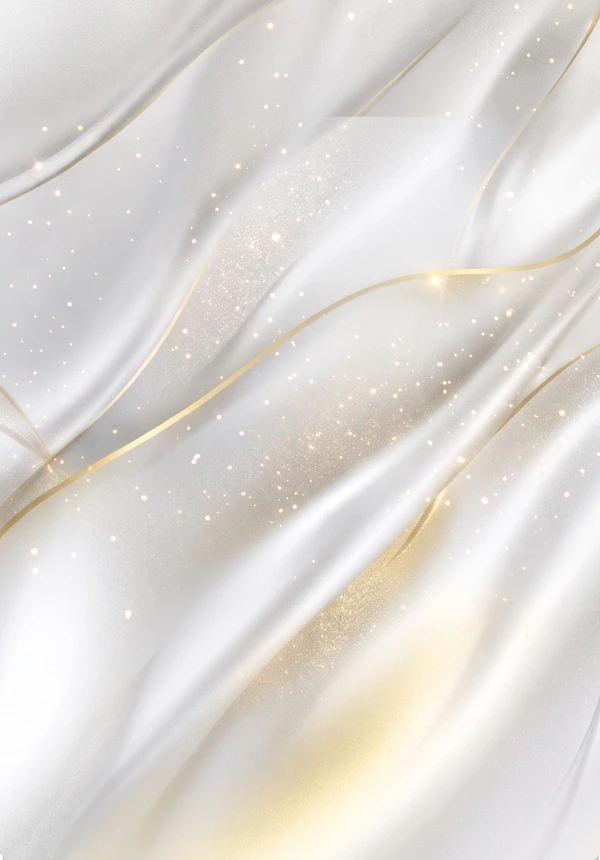
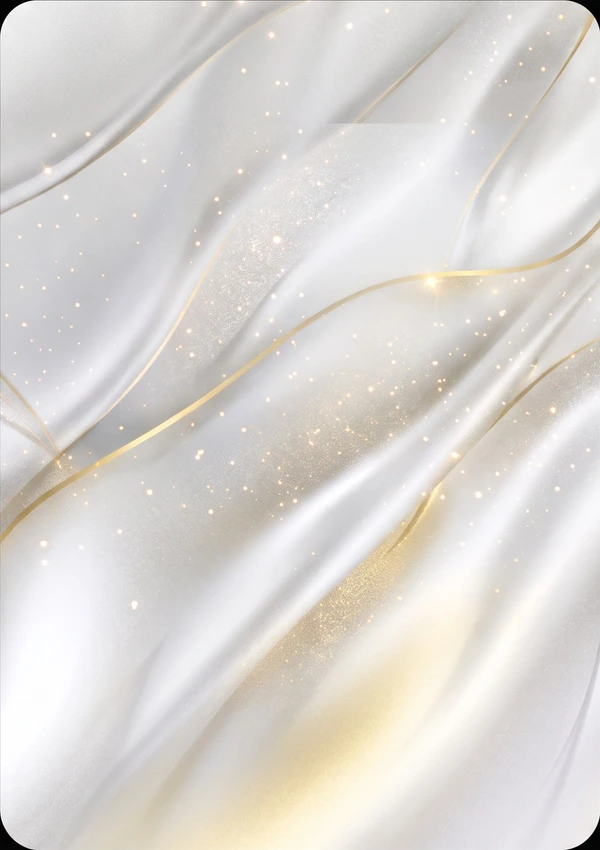
rebuild Icone from the three black-background Gemini layers (satin, gold frame, crystal render)
Claude-Session: https://claude.ai/code/session_01N8XLJoyFiwvoZXFrULaieo

diff --git a/components/cancha-card.tsx b/components/cancha-card.tsx
@@ -219,7 +219,7 @@ const ROUPAS = {
   // Maré (2026-11-05, teste do kit em camadas: fundo e borda feitos no Gemini com o gabarito 5:7, montados por `prototipos/montar-carta.cjs`):
   // tromba-d'água num mar de enchente e moldura de ouro com a "capa" de lâminas nos cantos de baixo. Janela padrão (`ring`, 64,5 px da caixa).
   mare: { background: "premium-mare", overflow: "premium-mare-vaza", artInset: { x: 1.43, y: 1.02, radius: 7.5 }, window: "ring", windowInset: { x: 1.43, y: 1.02 }, windowRadius: 7.5, contentPad: 6.25, artFrame: true, clean: true, trim: null, metal: ["#b8902f", "#b8902f", "#fff1c2"], accent: "#f3d27a", light: "120 230 255", bar: "#031018", muted: "#bfeeff", sparkles: false, neon: "#f3d27a" },
-  icone: { background: "premium-marfim", overflow: "premium-marfim-vaza", overflowWidth: 774 / 714, artFrame: true, clean: true, bareName: true, ink: "#2a2113", trim: null, metal: ["#c9a24e", "#c9a24e", "#fff4d6"], accent: "#c9a24e", light: "255 240 200", bar: "#f4efe4", muted: "#6b5a36", sparkles: false, neon: "#ffcf4d" },
+  icone: { background: "premium-marfim", overflow: "premium-marfim-vaza", overflowWidth: 790 / 714, artInset: { x: 1.43, y: 1.02, radius: 7.5 }, window: "ring", windowInset: { x: 1.43, y: 1.02 }, windowRadius: 7.5, contentPad: 6.25, artFrame: true, clean: true, bareName: true, ink: "#2a2113", trim: null, metal: ["#c9a24e", "#c9a24e", "#fff4d6"], accent: "#c9a24e", light: "255 240 200", bar: "#f4efe4", muted: "#6b5a36", sparkles: false, neon: "#ffcf4d" },
   // Aurora (2026-11-04, GUARDADA: o dono gostou mas pediu para não aplicar ainda; não está em `CARD_SKINS`, então não aparece na Loja.
   // Para usar: entrada em `CARD_SKINS` (sugestão nível 14, 1600 CC), `case` em `skinRoupa` e `SKIN_CLASSES`): aurora boreal renderizada pixel a pixel em código (`prototipos/premium-aurora.cjs`), fio de ouro, respiro preto,
   // tubo de neon verde-água por fora e a Estrela Polar no topo; a luz da aurora vaza sobre a moldura. Concêntrica: windowRadius = raio da carta − o aro.

diff --git a/CLAUDE.md b/CLAUDE.md
@@ -26,7 +26,7 @@ Design mobile-first é inegociável: a interação principal (dar notas no vesti
 
 **OVR de carreira e gols no Ataque (2026-11-08, decisão do dono do app; na `main` e migration `20261108140000_career_ovr.sql` aplicada em produção):** o OVR da carta deixou de ser calculado sobre todas as notas juntas e passou a ser a **média simples dos OVRs de cada rodada** (sem tirar nenhuma; em cada rodada a maior e a menor nota já saem, `counted_evaluations`), e cada atributo é a média dele nas rodadas (`computeCareerCard` em `lib/ovr.ts`; `computeOvr` ficou como o OVR de UMA rodada, usado na nota da rodada e nos pontos do ranking). **Cada gol confirmado soma +1 no Ataque** (VEL e CHU, teto de +10, `GOAL_ATTACK_BONUS_*`, goleiro fora); o OVR sobe o quanto o Ataque maior faz subir a média das 2 maiores estatísticas. O OVR da carta e as 3 estatísticas exibidas podem diferir em 1 ponto. A carta congelada dos prêmios (`compute_match_awards`) segue a mesma conta, com o OVR saindo de `card_ovr` dos atributos. `buildPlayers` e `getOvrByMember` recebem os gols confirmados (`getConfirmedGoalsByMember` em `lib/match-goals.ts`). Vale para o histórico (OVRs de hoje mudam ao entrar). **Desempate das premiações individuais (migration `20261108130000`, em produção, rodadas a partir de 2026-11-08):** empate na nota → maior OVR geral → maior média de todas as notas → todos ganham; Bola Murcha inverso; pacotes seguem com "empate igual". Testes: `supabase/tests/awards-tiebreak/tiebreak.mjs`.
 
-**Pacotes de skins (2026-11-08, em construção na branch `feat/pacotes`, TUDO DESLIGADO em produção; design em `docs/superpowers/specs/2026-11-07-pacotes-design.md` e plano em `docs/superpowers/plans/2026-11-07-pacotes-plan.md`, ambos na branch `docs/pacotes-design`):** ao fechar a rodada, quem jogou ganha 1 pacote lacrado com 1 skin (só visual/coleção, não muda a pelada). Banco (migration `20261108120000_packs.sql`, aplicada em produção desligada): `groups.packs_enabled` (padrão falso, só o `/admin` liga, junto com `pack_min_players`, padrão 10), tabelas sem acesso direto (`pack_sets` por mês, `pack_tier_odds`, `pack_config`, `pack_rarity_coins`, `packs`), sorteio dentro de `close_match` (`draw_round_packs`: faixas A Craque, B Destaque, C Pelada, D Reserva pela nota da rodada, proteção contra azar `m = 1 + (M-1)·t²`, garantia nos últimos 7 dias, chance real gravada por pacote), `get_my_packs`, `count_my_unopened_packs` e `open_pack` (idempotente; skin repetida vira CC: comum 10, rara 20, épica 50, lendária 100; posse em `card_skin_purchases` com `source = 'pack'`). Testes: `supabase/tests/packs/packs.mjs` e `seed-script.mjs`. App: `lib/packs.ts`, `app/loja/_data-access/get-my-packs.ts`, `open-pack.ts`, **Loja → Meus pacotes** (`my-packs.tsx`, linhas compactas, 3 visíveis e "Mostrar todos"), pontinho âmbar no ícone da Loja (`PackDot` em `main-nav.tsx`, `lib/pack-count.ts`), "Você ganhou o Pacote" em "Sua rodada" (`pack-reward.tsx`, Abrir agora / Guardar), abertura em tela cheia (`components/pack-stage.tsx`, protótipo aprovado; `pack-opener.tsx`; modo `pure` da `CanchaCard`; tampão escuro em degradê atrás do capuz da Destino), raridade em Eu → Minhas cartas e moedas das repetidas somadas ao saldo (`getLeague`). Capinha provisória por faixa em `components/pack-cover.tsx`; guia do prompt do Gemini em `docs/superpowers/specs/2026-11-08-capinhas-pacote-prompt.md`. Scripts de teste: `supabase/scripts/seed-test-packs.sql` e `cleanup-test-packs.sql` (precisam da pelada "Teste Pacotes" criada no `/admin`). **Decisão do dono do app em 2026-11-08: só testar em produção depois de terminar o design de todas as cartas e das capinhas dos pacotes; lançamento planejado para 1/12 (versão 3.21.0). **Regras de raridade das skins de pacote (decisão do dono do app em 2026-11-08):** cada nível acrescenta algo que o anterior não tem. **Comum:** borda simples (fio ou tubo) e fundo padrão ou textura leve. **Rara:** borda trabalhada de leve e fundo com pattern próprio. **Épica:** borda trabalhada, fundo sofisticado e **1 peça em render 3D vazando** da carta (animação opcional, como raios acendendo). **Lendária:** borda trabalhada com enfeites, fundo sofisticado (ferro, metal), **render 3D vazando**, **elementos flutuando em volta** (círculo atrás e runas ou cacos) e animação; só 1 por conjunto e é o único nível com flutuantes (também o mais pesado para o iPhone). Peças de arte no Gemini: comum 1, rara 2 (fundo e borda), épica 3 (fundo, borda e render), lendária 3 mais 3 a 5 flutuantes. **Comuns e raras podem ser recolores do mesmo desenho** (coluna `pack_sets.design`), como Esmeralda, Safira, Ametista e Rubi. Régua com o que existe: Destino lendária; Lenda do Trovão e Relâmpago entre épica e lendária; os cristais (Safira, Ametista, Esmeralda) seriam épicas pela regra; Rubi e Ícone épicas (2026-11-09: no mesmo desenho de cristais das outras épicas, só recoloridas por `premium-v2.cjs`: Rubi rosa-vinho e Ícone `marfim`; os louros ficam guardados nos arquivos `-fino`). **Como mostrar a raridade (2026-11-09):** por enquanto só **escrita** embaixo do nome da carta na Loja e em Eu → Minhas cartas (`CardSkinTile`, `SKIN_RARITIES` e `getSkinRarity` em `lib/packs.ts`); a ideia do cristal embaixo da carta (three.js, ray tracing, `scripts/rarity-gems/`, imagens guardadas em `scripts/rarity-gems/saida/`) foi **descartada pelo dono do app** por ficar longe/estranha; a representação nas outras telas (Início, Carreira, mesa tática, ranking) ainda será definida por ele (a skin não mostra nada fora da Loja e de Eu). **Verso da carta e giro (2026-11-09):** a raridade da skin aparece no **verso da carta** (`components/card-back.tsx`: placa fosca na cor da raridade, fio fino, quadra de futsal desenhada em código na proporção real de 40 x 20 m e simétrica, plaquinhas com o nome da skin e da raridade e, no centro, a moeda com a logo, arte do Gemini em quatro cores em `public/cartas/versos/moeda-<raridade>.webp`, gerada por `scripts/card-backs/make-coins.mjs`). O giro mora no **visualizador de carta** (`components/card-viewer.tsx`, `CardViewer`; decisão do dono do app em 2026-11-09, sem botão de virar): tocar na carta em **Início, Carreira, Eu e nas miniaturas de Loja/Eu** abre um modal com a carta grande, que **vira ao toque** para o verso da raridade (só `transform`, em duas metades, sem `backface-visibility`; só skins com raridade), e embaixo os detalhes (OVR, patente, as 3 estatísticas e a skin com a raridade). Mesa tática, ranking, Artilharia e Comunidade ficam como eram (sem giro). Na abertura do pacote o verso é o mesmo, com os nomes em branco (a skin é segredo). A legenda escrita da raridade (`RarityLabel` com o cristal do three.js) fica só na Loja e em Eu. Prompts do Gemini em `docs/superpowers/specs/2026-11-09-versos-cartas-prompt.md`. Dezembro decidido em 2026-11-08: as 5 cartas de Natal das premiações individuais ficam como estão (sem repaginar) e os pacotes são todos da temática do filme (só alusões originais); a Loja mistura Natal e filme, a decidir. Faltam: artes das 4 capinhas e o conjunto real de dezembro (skins e raridades, tudo do filme).**
+**Pacotes de skins (2026-11-08, em construção na branch `feat/pacotes`, TUDO DESLIGADO em produção; design em `docs/superpowers/specs/2026-11-07-pacotes-design.md` e plano em `docs/superpowers/plans/2026-11-07-pacotes-plan.md`, ambos na branch `docs/pacotes-design`):** ao fechar a rodada, quem jogou ganha 1 pacote lacrado com 1 skin (só visual/coleção, não muda a pelada). Banco (migration `20261108120000_packs.sql`, aplicada em produção desligada): `groups.packs_enabled` (padrão falso, só o `/admin` liga, junto com `pack_min_players`, padrão 10), tabelas sem acesso direto (`pack_sets` por mês, `pack_tier_odds`, `pack_config`, `pack_rarity_coins`, `packs`), sorteio dentro de `close_match` (`draw_round_packs`: faixas A Craque, B Destaque, C Pelada, D Reserva pela nota da rodada, proteção contra azar `m = 1 + (M-1)·t²`, garantia nos últimos 7 dias, chance real gravada por pacote), `get_my_packs`, `count_my_unopened_packs` e `open_pack` (idempotente; skin repetida vira CC: comum 10, rara 20, épica 50, lendária 100; posse em `card_skin_purchases` com `source = 'pack'`). Testes: `supabase/tests/packs/packs.mjs` e `seed-script.mjs`. App: `lib/packs.ts`, `app/loja/_data-access/get-my-packs.ts`, `open-pack.ts`, **Loja → Meus pacotes** (`my-packs.tsx`, linhas compactas, 3 visíveis e "Mostrar todos"), pontinho âmbar no ícone da Loja (`PackDot` em `main-nav.tsx`, `lib/pack-count.ts`), "Você ganhou o Pacote" em "Sua rodada" (`pack-reward.tsx`, Abrir agora / Guardar), abertura em tela cheia (`components/pack-stage.tsx`, protótipo aprovado; `pack-opener.tsx`; modo `pure` da `CanchaCard`; tampão escuro em degradê atrás do capuz da Destino), raridade em Eu → Minhas cartas e moedas das repetidas somadas ao saldo (`getLeague`). Capinha provisória por faixa em `components/pack-cover.tsx`; guia do prompt do Gemini em `docs/superpowers/specs/2026-11-08-capinhas-pacote-prompt.md`. Scripts de teste: `supabase/scripts/seed-test-packs.sql` e `cleanup-test-packs.sql` (precisam da pelada "Teste Pacotes" criada no `/admin`). **Decisão do dono do app em 2026-11-08: só testar em produção depois de terminar o design de todas as cartas e das capinhas dos pacotes; lançamento planejado para 1/12 (versão 3.21.0). **Regras de raridade das skins de pacote (decisão do dono do app em 2026-11-08):** cada nível acrescenta algo que o anterior não tem. **Comum:** borda simples (fio ou tubo) e fundo padrão ou textura leve. **Rara:** borda trabalhada de leve e fundo com pattern próprio. **Épica:** borda trabalhada, fundo sofisticado e **1 peça em render 3D vazando** da carta (animação opcional, como raios acendendo). **Lendária:** borda trabalhada com enfeites, fundo sofisticado (ferro, metal), **render 3D vazando**, **elementos flutuando em volta** (círculo atrás e runas ou cacos) e animação; só 1 por conjunto e é o único nível com flutuantes (também o mais pesado para o iPhone). Peças de arte no Gemini: comum 1, rara 2 (fundo e borda), épica 3 (fundo, borda e render), lendária 3 mais 3 a 5 flutuantes. **Comuns e raras podem ser recolores do mesmo desenho** (coluna `pack_sets.design`), como Esmeralda, Safira, Ametista e Rubi. Régua com o que existe: Destino lendária; Lenda do Trovão e Relâmpago entre épica e lendária; os cristais (Safira, Ametista, Esmeralda) seriam épicas pela regra; Rubi e Ícone épicas (2026-11-09: no mesmo desenho de cristais das outras épicas, só recoloridas por `premium-v2.cjs`: Rubi rosa-vinho; o **Ícone** saiu dessa arte em 2026-11-09 e usa as 3 peças próprias do dono no Gemini, `prototipos/icone-v4.cjs`: cetim branco com veios de ouro, moldura de ouro com fio de luz e cristais com pepitas; carta clara, com `ink` escuro na roupa; os louros ficam guardados nos arquivos `-fino`). **Como mostrar a raridade (2026-11-09):** por enquanto só **escrita** embaixo do nome da carta na Loja e em Eu → Minhas cartas (`CardSkinTile`, `SKIN_RARITIES` e `getSkinRarity` em `lib/packs.ts`); a ideia do cristal embaixo da carta (three.js, ray tracing, `scripts/rarity-gems/`, imagens guardadas em `scripts/rarity-gems/saida/`) foi **descartada pelo dono do app** por ficar longe/estranha; a representação nas outras telas (Início, Carreira, mesa tática, ranking) ainda será definida por ele (a skin não mostra nada fora da Loja e de Eu). **Verso da carta e giro (2026-11-09):** a raridade da skin aparece no **verso da carta** (`components/card-back.tsx`: placa fosca na cor da raridade, fio fino, quadra de futsal desenhada em código na proporção real de 40 x 20 m e simétrica, plaquinhas com o nome da skin e da raridade e, no centro, a moeda com a logo, arte do Gemini em quatro cores em `public/cartas/versos/moeda-<raridade>.webp`, gerada por `scripts/card-backs/make-coins.mjs`). O giro mora no **visualizador de carta** (`components/card-viewer.tsx`, `CardViewer`; decisão do dono do app em 2026-11-09, sem botão de virar): tocar na carta em **Início, Carreira, Eu e nas miniaturas de Loja/Eu** abre um modal com a carta grande, que **vira ao toque** para o verso da raridade (só `transform`, em duas metades, sem `backface-visibility`; só skins com raridade), e embaixo os detalhes (OVR, patente, as 3 estatísticas e a skin com a raridade). Mesa tática, ranking, Artilharia e Comunidade ficam como eram (sem giro). Na abertura do pacote o verso é o mesmo, com os nomes em branco (a skin é segredo). A legenda escrita da raridade (`RarityLabel` com o cristal do three.js) fica só na Loja e em Eu. Prompts do Gemini em `docs/superpowers/specs/2026-11-09-versos-cartas-prompt.md`. Dezembro decidido em 2026-11-08: as 5 cartas de Natal das premiações individuais ficam como estão (sem repaginar) e os pacotes são todos da temática do filme (só alusões originais); a Loja mistura Natal e filme, a decidir. Faltam: artes das 4 capinhas e o conjunto real de dezembro (skins e raridades, tudo do filme).**
 
 **Foco do produto:** é um "fantasy" da pelada: nota, carta, OVR e sorteio. Confirmação de presença e placar ficam no WhatsApp; não construa gestão de pelada além do necessário.
 

diff --git a/.claude/rules/design-system.md b/.claude/rules/design-system.md
@@ -71,7 +71,7 @@ Desde 2026-10-29 todas as cartas usam a `CanchaCard` (o `PlayerCard` a chama). A
 
 ## 🎴 Raridade das skins de pacote (2026-11-08)
 
-cada nível acrescenta algo que o anterior não tem. **Comum:** borda simples (fio ou tubo) e fundo padrão ou textura leve. **Rara:** borda trabalhada de leve e fundo com pattern próprio. **Épica:** borda trabalhada, fundo sofisticado e **1 peça em render 3D vazando** da carta (animação opcional, como raios acendendo). **Lendária:** borda trabalhada com enfeites, fundo sofisticado (ferro, metal), **render 3D vazando**, **elementos flutuando em volta** (círculo atrás e runas ou cacos) e animação; só 1 por conjunto e é o único nível com flutuantes (também o mais pesado para o iPhone). Peças de arte no Gemini: comum 1, rara 2 (fundo e borda), épica 3 (fundo, borda e render), lendária 3 mais 3 a 5 flutuantes. **Comuns e raras podem ser recolores do mesmo desenho** (coluna `pack_sets.design`), como Esmeralda, Safira, Ametista e Rubi. Régua com o que existe: Destino lendária; Lenda do Trovão e Relâmpago entre épica e lendária; os cristais (Safira, Ametista, Esmeralda) seriam épicas pela regra; Rubi e Ícone épicas (2026-11-09: mesma arte de cristais das outras épicas, só recolorida por `premium-v2.cjs`; Ícone = `marfim`).
+cada nível acrescenta algo que o anterior não tem. **Comum:** borda simples (fio ou tubo) e fundo padrão ou textura leve. **Rara:** borda trabalhada de leve e fundo com pattern próprio. **Épica:** borda trabalhada, fundo sofisticado e **1 peça em render 3D vazando** da carta (animação opcional, como raios acendendo). **Lendária:** borda trabalhada com enfeites, fundo sofisticado (ferro, metal), **render 3D vazando**, **elementos flutuando em volta** (círculo atrás e runas ou cacos) e animação; só 1 por conjunto e é o único nível com flutuantes (também o mais pesado para o iPhone). Peças de arte no Gemini: comum 1, rara 2 (fundo e borda), épica 3 (fundo, borda e render), lendária 3 mais 3 a 5 flutuantes. **Comuns e raras podem ser recolores do mesmo desenho** (coluna `pack_sets.design`), como Esmeralda, Safira, Ametista e Rubi. Régua com o que existe: Destino lendária; Lenda do Trovão e Relâmpago entre épica e lendária; os cristais (Safira, Ametista, Esmeralda) seriam épicas pela regra; Rubi e Ícone épicas (2026-11-09: mesma arte de cristais das outras épicas, só recolorida por `premium-v2.cjs`; Ícone = 3 peças próprias do Gemini, `prototipos/icone-v4.cjs`; carta clara com `ink` escuro, render reduzido a 70% e posto na lateral direita, meio dentro e meio fora; fundo esticado ~2% até cobrir a abertura da borda).
 
 ## 🃏 Carta do jogador (desenho antigo, `LegacyPlayerCard`)
 
